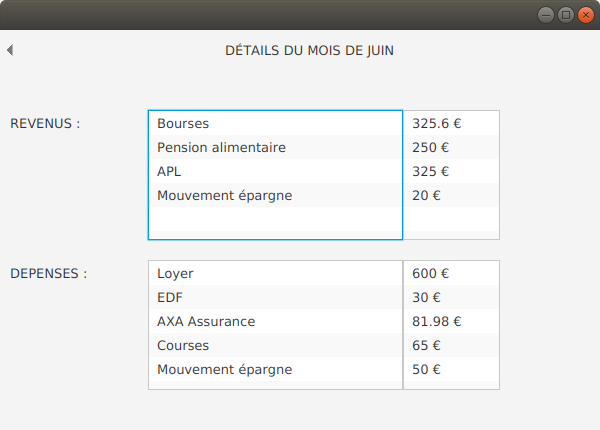
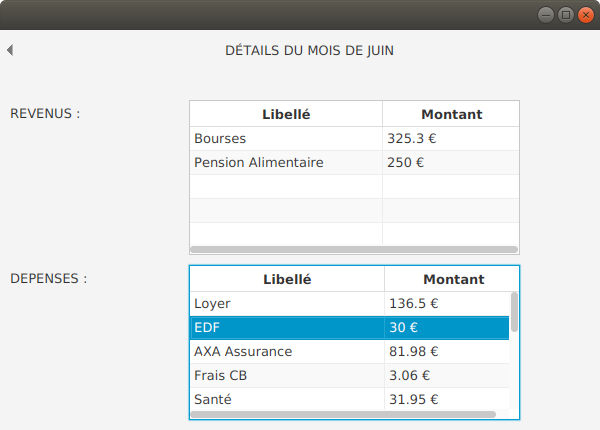
Fusion des ListView en tableau dans Details

Changed region(s): [[0.24, 0.2419, 0.87, 0.9977], [0.0, 0.6047, 0.15, 0.6651], [0.0, 0.2419, 0.12, 0.3023]]

diff --git a/src/sample/Controller/DetailsController.java b/src/sample/Controller/DetailsController.java
@@ -1,10 +1,12 @@
 package sample.Controller;
 
+import javafx.beans.property.SimpleStringProperty;
 import javafx.fxml.FXML;
 import javafx.fxml.FXMLLoader;
 import javafx.fxml.Initializable;
 import javafx.scene.control.Label;
-import javafx.scene.control.ListView;
+import javafx.scene.control.TableColumn;
+import javafx.scene.control.TableView;
 import javafx.scene.layout.AnchorPane;
 import sample.Model.ICategory;
 import sample.Model.IPeriode;
@@ -28,13 +30,17 @@ public class DetailsController implements Initializable {
     @FXML
     private Label title;
     @FXML
-    private ListView<String> listViewRev;
+    private TableView<ICategory> revTable;
     @FXML
-    private ListView<String> listViewDep;
+    private TableView<ICategory> depTable;
     @FXML
-    private ListView<String> listViewRevMontant;
+    private TableColumn<ICategory, String> listViewRev;
     @FXML
-    private ListView<String> listViewDepMontant;
+    private TableColumn<ICategory, String> listViewDep;
+    @FXML
+    private TableColumn<ICategory, String> listViewRevMontant;
+    @FXML
+    private TableColumn<ICategory, String> listViewDepMontant;
 
 
 
@@ -47,9 +53,7 @@ public class DetailsController implements Initializable {
 
     }
 
-    public void addToListView(ArrayList<Montant> list, ListView<String> label, ListView<String> montant){
-        HashMap<ICategory, Double> categoryList = new HashMap<>();
-        ArrayList<ICategory> category = new ArrayList<>();
+    public void putInList(HashMap<ICategory, Double> categoryList, ArrayList<ICategory> category, ArrayList<Montant> list){
         for(Montant m : list){
             if(categoryList.containsKey(m.getCategory())){
                 double v = categoryList.get(m.getCategory());
@@ -60,9 +64,26 @@ public class DetailsController implements Initializable {
                 category.add(m.getCategory());
             }
         }
+    }
+
+    public void addToListView(ArrayList<Montant> list, ArrayList<Montant> listRec,TableColumn<ICategory, String> label, TableColumn<ICategory, String> montant, TableView<ICategory> table){
+        HashMap<ICategory, Double> categoryList = new HashMap<>();
+        ArrayList<ICategory> category = new ArrayList<>();
+        putInList(categoryList, category, listRec);
+        putInList(categoryList, category, list);
+
+
         for(ICategory c : category){
-            label.getItems().add(c.getName());
-            montant.getItems().add(df.format(categoryList.get(c))+" €");
+            table.getItems().add(c);
+            label.setCellValueFactory(param -> {
+                final ICategory cat = param.getValue();
+                return new SimpleStringProperty(cat.getName());
+            });
+            montant.setCellValueFactory(param -> {
+                ICategory cat = param.getValue();
+                String val = df.format(categoryList.get(cat))+" €";
+                return new SimpleStringProperty(val);
+            });
         }
     }
 
@@ -70,20 +91,9 @@ public class DetailsController implements Initializable {
         IPeriode month = controller.getGlobalPeriode().get(controller.getYearCursor()).getChild(controller.getMonthCursor());
         String winTitle = "Détails du mois de "+month.getName();
         title.setText(winTitle.toUpperCase());
-        addToListView(month.getRevenuesRec(),listViewRev, listViewRevMontant);
-        addToListView(month.getRevenues(),listViewRev, listViewRevMontant);
-        if(listViewRev.getItems().size() == 0){
-            listViewRev.getItems().add("Aucun revenu pour "+month.getName());
-            listViewRevMontant.setVisible(false);
-            listViewRev.setMaxHeight(LIST_CELL_HEIGHT);
-        }
-        addToListView(month.getCharges(),listViewDep, listViewDepMontant);
-        addToListView(month.getDepenses(),listViewDep, listViewDepMontant);
-        if(listViewDep.getItems().size() == 0){
-            listViewDep.getItems().add("Aucune dépense pour "+month.getName());
-            listViewDepMontant.setVisible(false);
-            listViewDep.setMaxHeight(LIST_CELL_HEIGHT);
-        }
+        addToListView(month.getRevenues(), month.getRevenuesRec(),listViewRev, listViewRevMontant, revTable);
+        addToListView(month.getDepenses(), month.getCharges(),listViewDep, listViewDepMontant, depTable);
+
 
     }
 

diff --git a/README.md b/README.md
@@ -1,12 +1,13 @@
 # Budget software
 ![baniere](https://github.com/wilfriedaugeard/Budget/blob/master/assets/baniere.jpg)
 <p align="center">
-<img alt="Version : 1.0.3" src="https://img.shields.io/badge/version-1.0.3-green" target="_blank" />
+<img alt="Version : 1.0.4" src="https://img.shields.io/badge/version-1.0.4-green" target="_blank" />
   <img alt="Java" src="https://img.shields.io/badge/Java-v1.8-blue?logo=java&logoColor=white" target="_blank" />
 <a href="https://github.com/wilfriedaugeard/Budget/blob/master/LICENSE">
     <img alt="License: GNU" src="https://img.shields.io/badge/License-GNU-yellow.svg" />
 </a>
 </p>
+
 
 > Budget is a french software made with JavaFX which helps to make its financial accounts.</br>
 *This project is not finished*.
